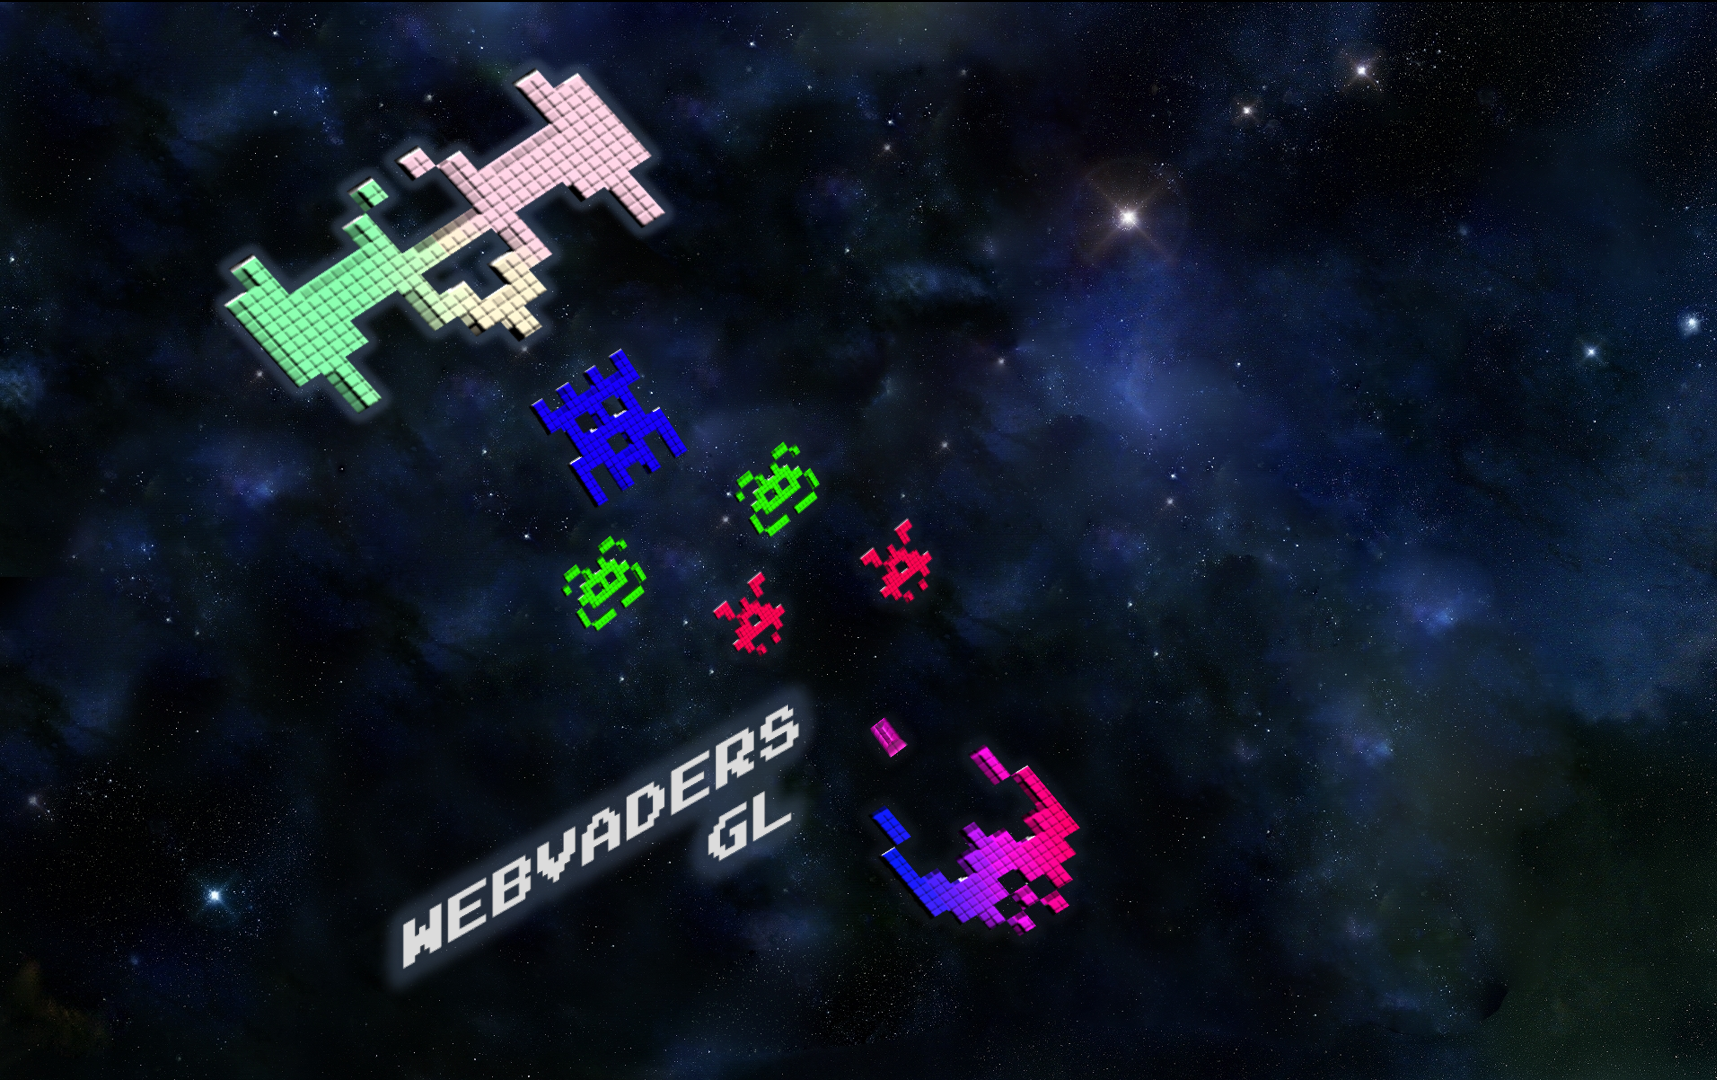
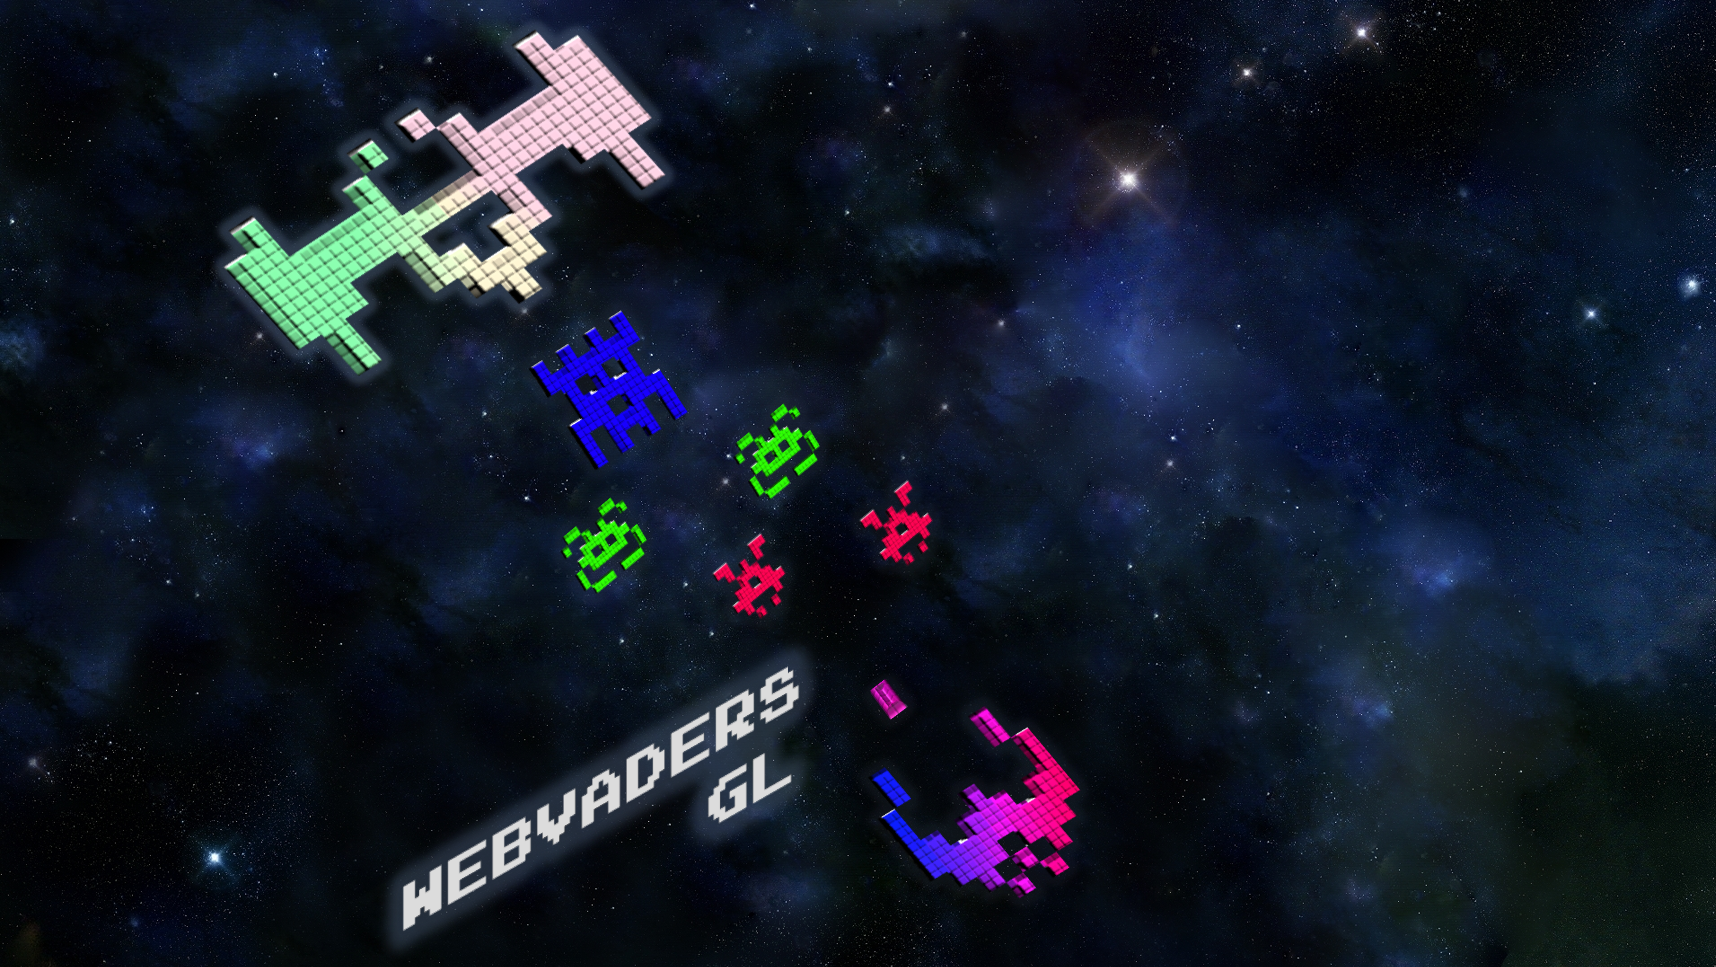
quero 20 neste trabalho

diff --git a/index.html b/index.html
@@ -22,6 +22,17 @@
         margin: 0;
         padding: 0;
     }
+    body {
+
+        background: /* top, transparent black, faked with gradient */ linear-gradient(
+                rgba(0, 0, 0, 0.7),
+                rgba(0, 0, 0, 0.7)
+        ),
+            /* bottom, image */ url(webvadersgl.png);
+        background-repeat:no-repeat;
+
+        background-size:cover;
+    }
 
 </style>
 
@@ -100,7 +111,9 @@
 
         <table style="margin-left: auto; margin-right: auto;">
             <tr>
-                <td>&#9617;&#9617;&#9617;&#9617;&#9617;&#9617;&#9617;&#9617;&#9617;&#9617;&#9617;&#9617;&#9617;&#9617;&#9617;&#9617;&#9617;<br />
+                <td>
+                    <br /><br /><br /><br /><br /><br /><br /><br /><br /><br /><br /><br /><br /><br /><br /><br /><br /><br /><br /><br /><br />
+                    &#9617;&#9617;&#9617;&#9617;&#9617;&#9617;&#9617;&#9617;&#9617;&#9617;&#9617;&#9617;&#9617;&#9617;&#9617;&#9617;&#9617;<br />
                     &#9617;&#9617;&#9617;&#9617;&#9617;&#9600;&#9604;&#9617;&#9617;&#9617;&#9604;&#9600;&#9617;&#9617;&#9617;&#9617;&#9617;<br />
                     &#9617;&#9617;&#9617;&#9617;&#9604;&#9608;&#9600;&#9608;&#9608;&#9608;&#9600;&#9608;&#9604;&#9617;&#9617;&#9617;&#9617;<br />
                     &#9617;&#9617;&#9617;&#9608;&#9600;&#9608;&#9608;&#9608;&#9608;&#9608;&#9608;&#9608;&#9600;&#9608;&#9617;&#9617;&#9617;<br />
